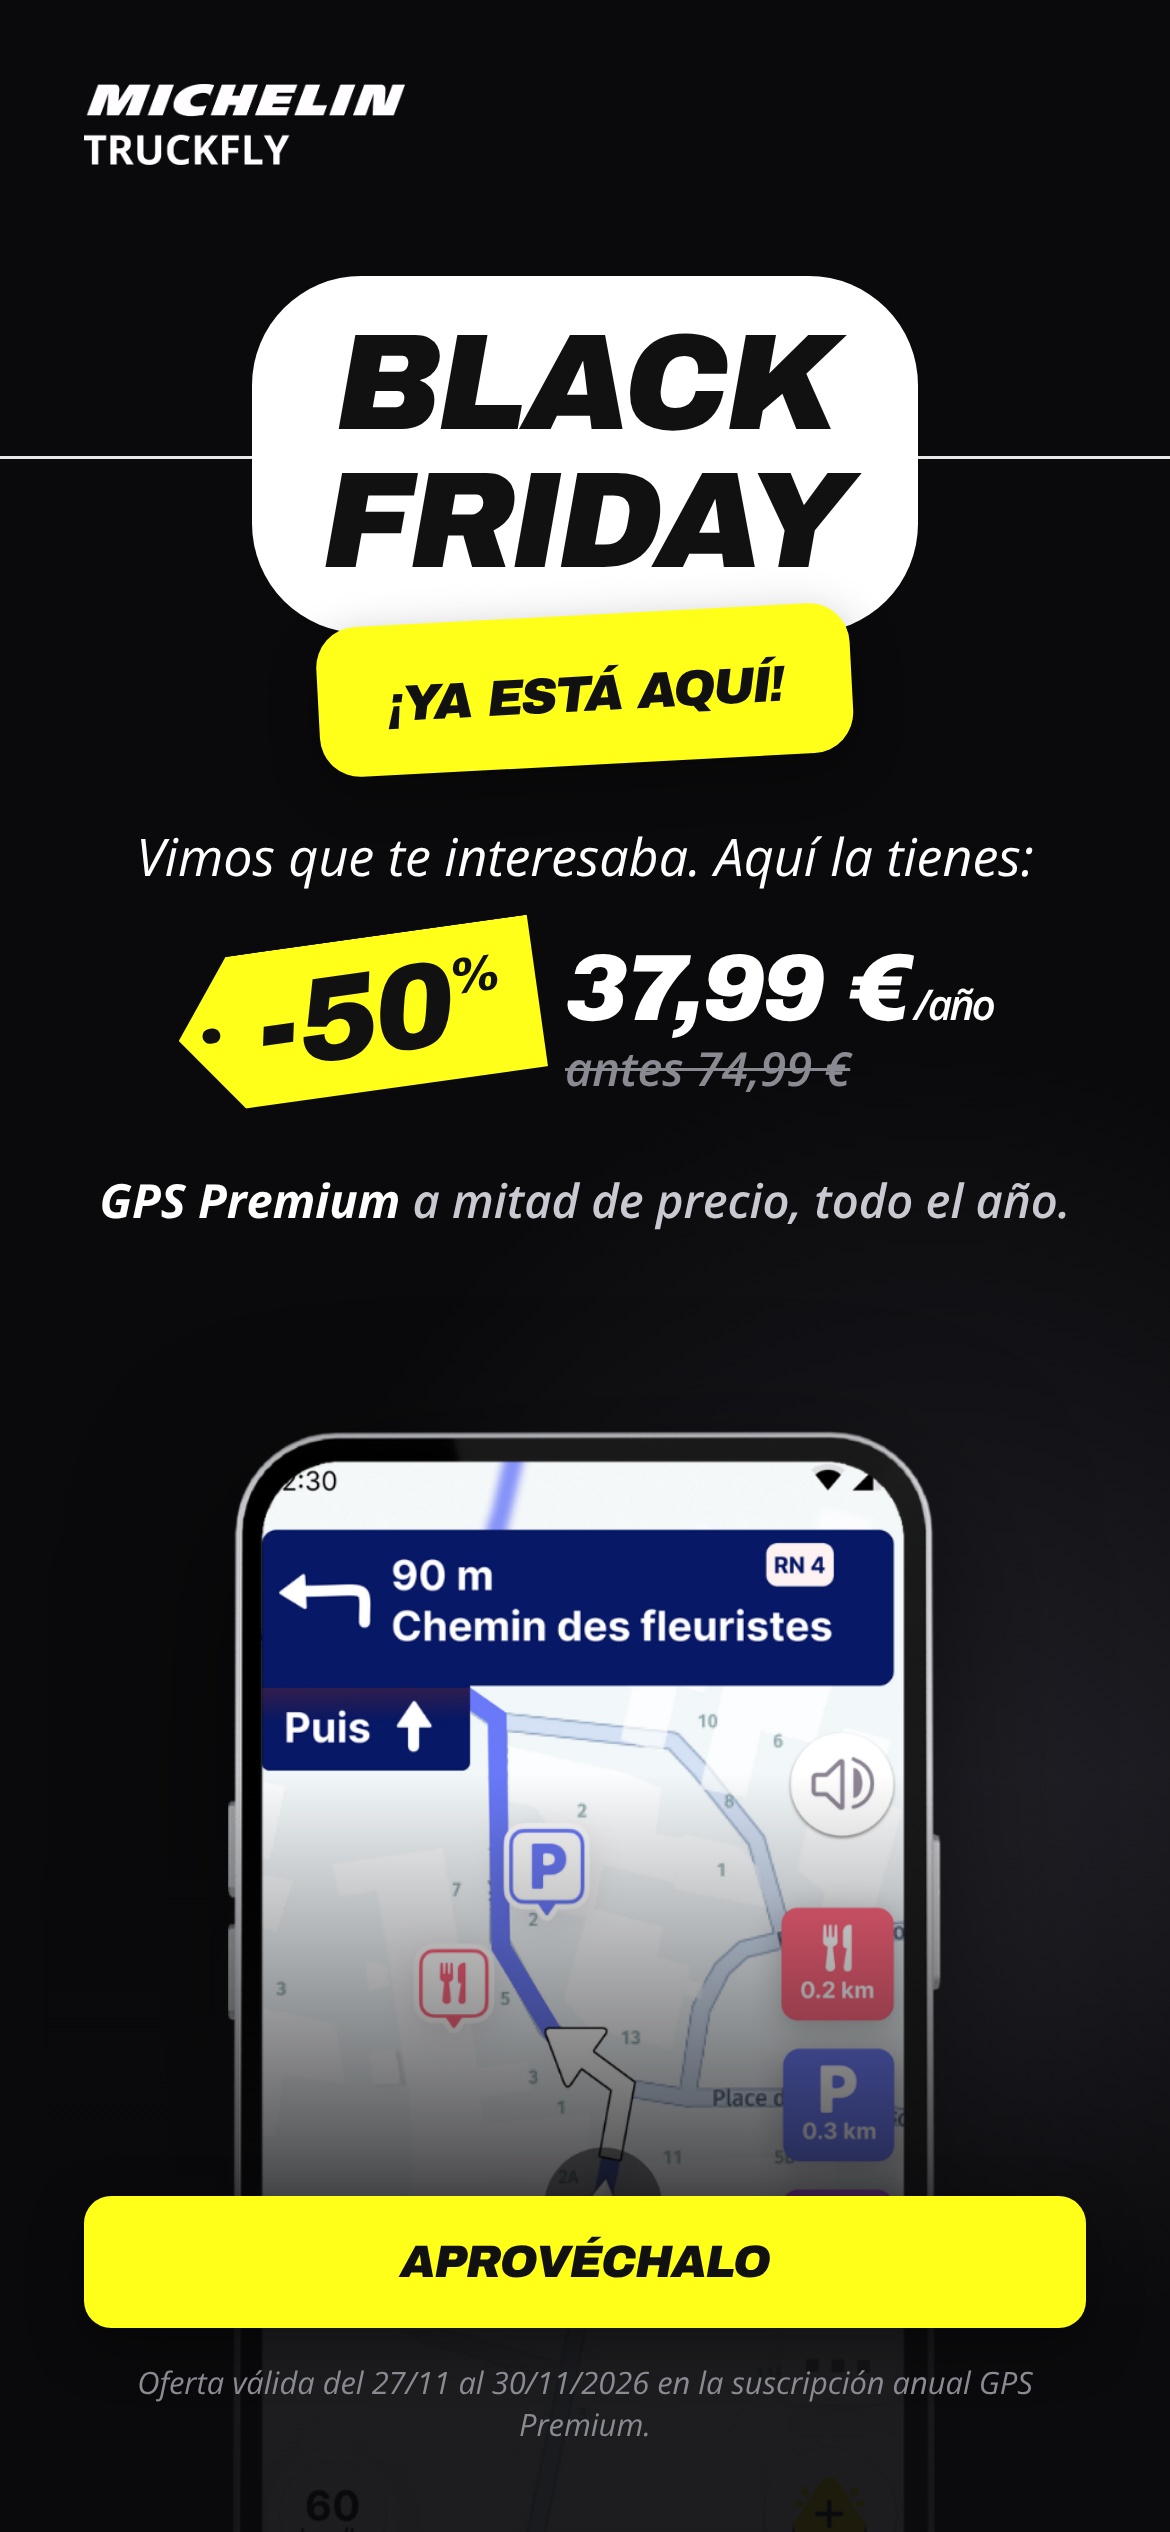
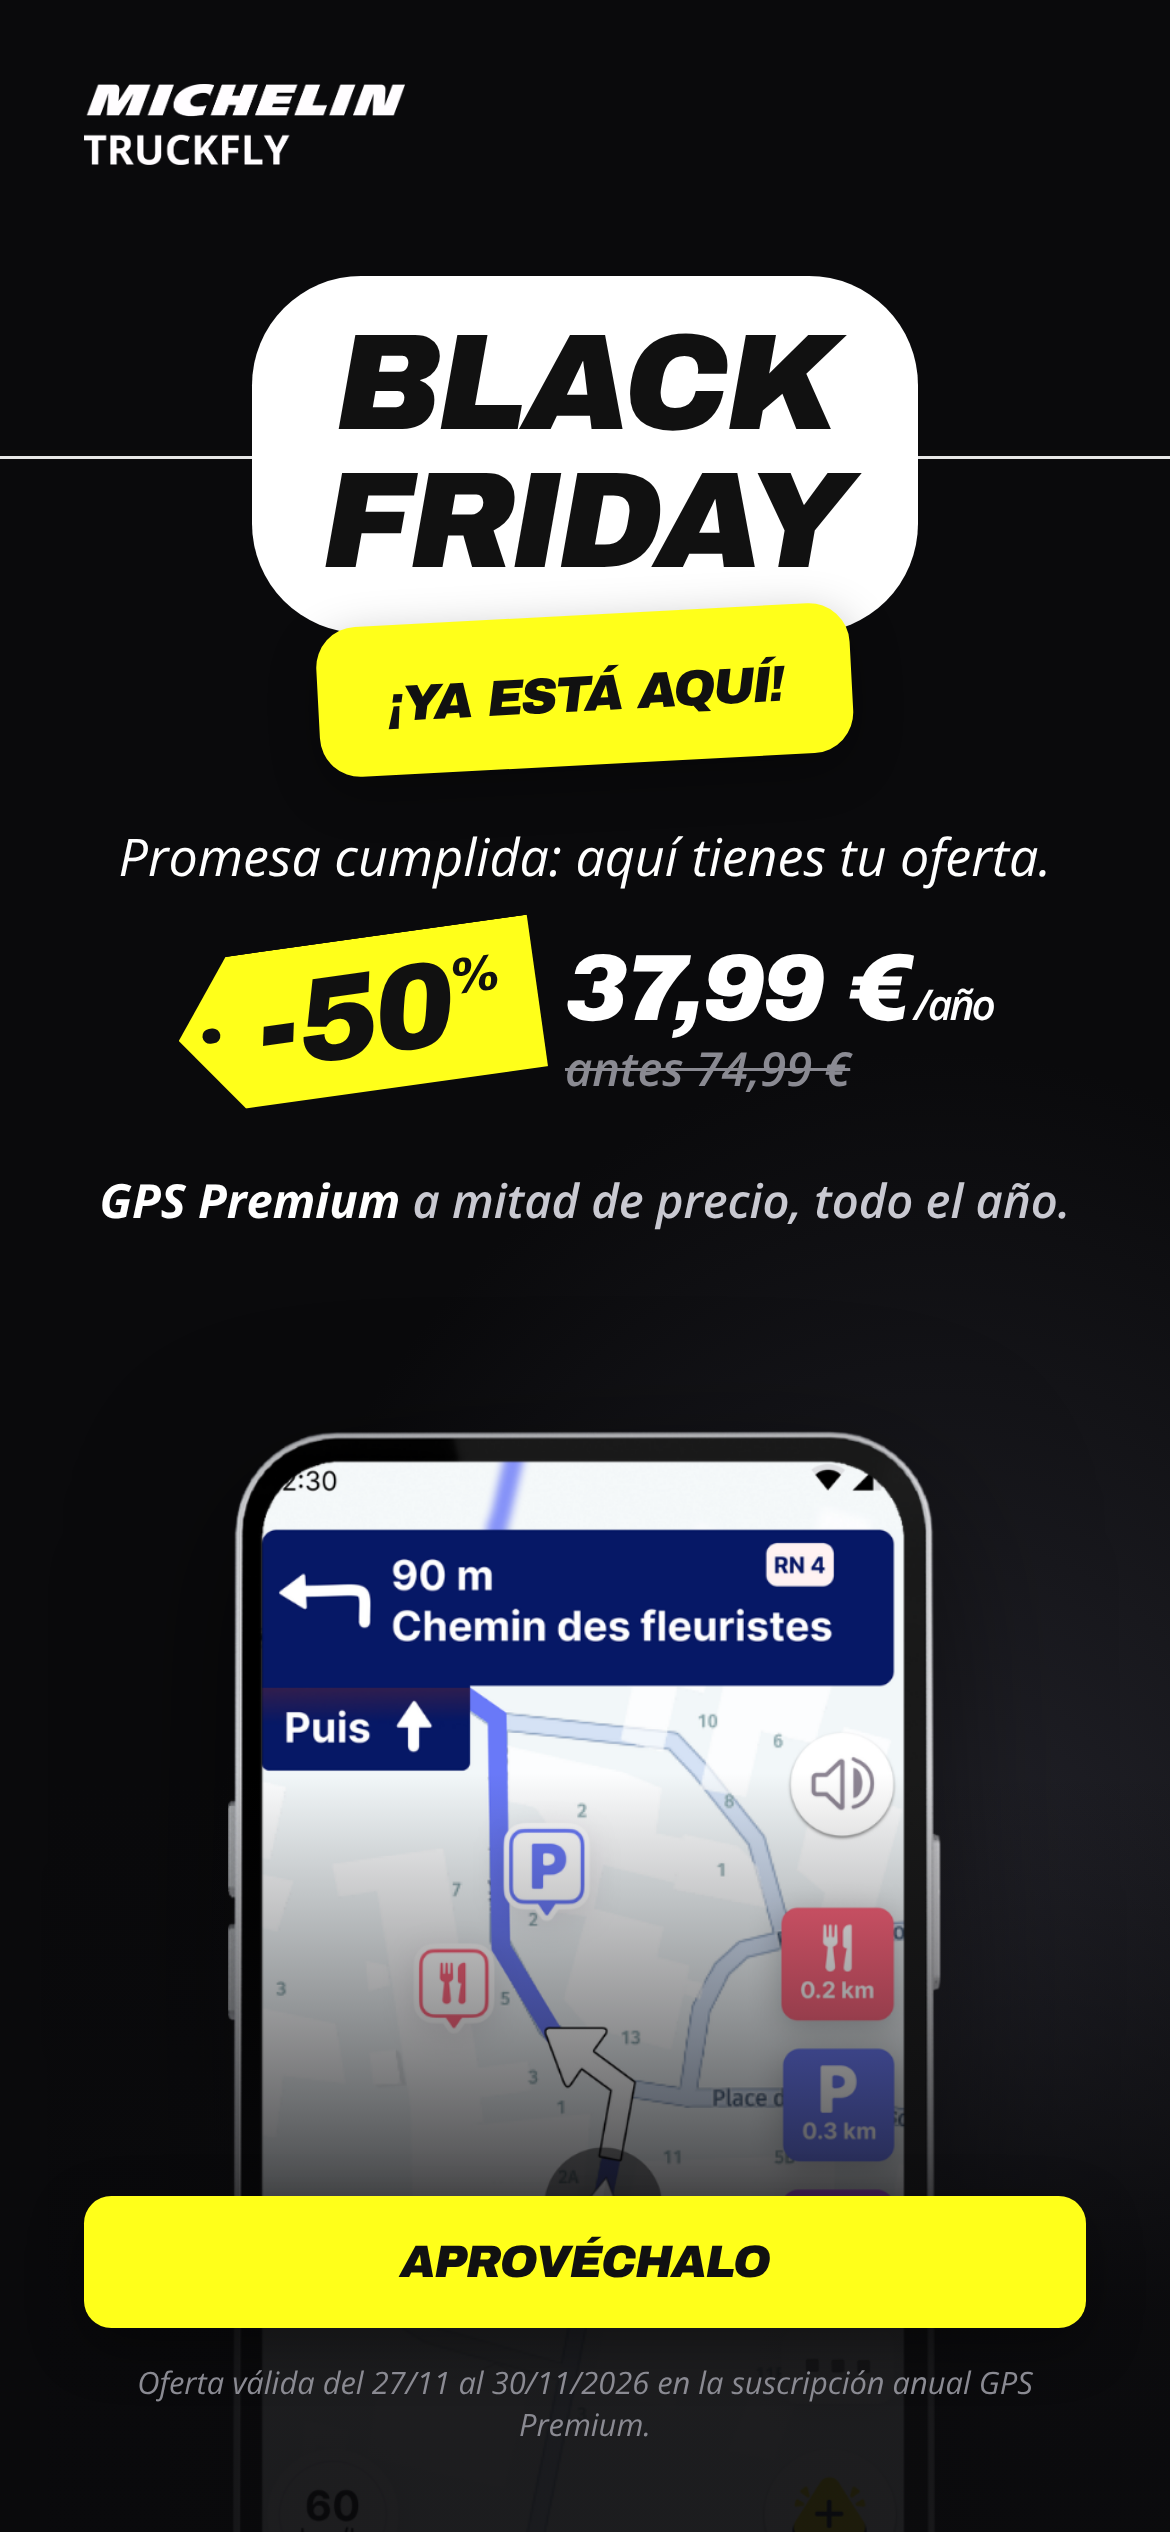
Black Friday: punchier segment in-app messages and push copy in 7 languages
Claude-Session: https://claude.ai/code/session_01Dxf6WNpnQxv74aPZfAxqSJ

Changed region(s): [[0.0923, 0.312, 0.8923, 0.3432]]

diff --git a/black-friday/campagne.html b/black-friday/campagne.html
@@ -163,7 +163,7 @@ const L = {
     notif: `Préviens-moi le 27/11`, note: `Tu recevras une notification le 27/11 au matin.`,
     offre: `<b>Le GPS Premium</b> à moitié prix, pour toute l'année.`,
     dernier: `Dernier jour`, profite: `J'en profite`,
-    plusTard: `Plus tard`, dJ: `<small>c'est parti !</small>`, msgInteresse: `On a vu que ça t'intéressait. La voici :`, msgPlusTard: `Tu avais dit « plus tard » : c'est maintenant.`, sousPlusTard: `Le GPS Premium est à moitié prix jusqu'au 30/11.`, dJusqua: `<small>jusqu'au</small>30/11`,
+    plusTard: `Plus tard`, dJ: `<small>c'est parti !</small>`, msgInteresse: `Promesse tenue : voici ton offre.`, msgPlusTard: `« Plus tard » vient d'arriver.`, sousPlusTard: `Le GPS Premium t'attend à moitié prix, jusqu'au 30/11.`, dJusqua: `<small>jusqu'au</small>30/11`,
     legal: `Offre valable du 27/11 au 30/11/2026 sur l'abonnement annuel GPS Premium.` },
   en: { nom: "English (UK)",
     prix: "£31.99", barre: "was £63.98", an: "/year",
@@ -173,7 +173,7 @@ const L = {
     notif: `Remind me on 27/11`, note: `You'll get a notification on the morning of 27/11.`,
     offre: `<b>GPS Premium</b> at half price, for a whole year.`,
     dernier: `Last day`, profite: `Get the deal`,
-    plusTard: `Maybe later`, dJ: `<small>it's on!</small>`, msgInteresse: `We saw you were interested. Here it is:`, msgPlusTard: `You said “later”. Well, it's now.`, sousPlusTard: `GPS Premium is half price until 30/11.`, dJusqua: `<small>until</small>30/11`,
+    plusTard: `Maybe later`, dJ: `<small>it's on!</small>`, msgInteresse: `Promise kept: here's your deal.`, msgPlusTard: `“Later” has just arrived.`, sousPlusTard: `GPS Premium is waiting for you at half price, until 30/11.`, dJusqua: `<small>until</small>30/11`,
     legal: `Offer valid from 27/11 to 30/11/2026 on the annual GPS Premium subscription.` },
   de: { nom: "Deutsch",
     prix: "37,99 €", barre: "statt 74,99 €", an: "/Jahr",
@@ -183,7 +183,7 @@ const L = {
     notif: `Erinnere mich am 27.11.`, note: `Du bekommst am 27.11. morgens eine Benachrichtigung.`,
     offre: `<b>GPS Premium</b> zum halben Preis, ein ganzes Jahr lang.`,
     dernier: `Letzter Tag`, profite: `Jetzt sichern`,
-    plusTard: `Später`, dJ: `<small>es geht los!</small>`, msgInteresse: `Du wolltest Bescheid wissen. Hier ist das Angebot:`, msgPlusTard: `Du hast „später“ gesagt. Jetzt ist es so weit.`, sousPlusTard: `GPS Premium zum halben Preis bis 30.11.`, dJusqua: `<small>bis</small>30.11.`,
+    plusTard: `Später`, dJ: `<small>es geht los!</small>`, msgInteresse: `Versprochen ist versprochen: dein Angebot.`, msgPlusTard: `„Später“ ist jetzt.`, sousPlusTard: `GPS Premium wartet auf dich: halber Preis bis 30.11.`, dJusqua: `<small>bis</small>30.11.`,
     legal: `Angebot gültig vom 27.11. bis 30.11.2026 für das GPS Premium Jahresabo.` },
   it: { nom: "Italiano",
     prix: "37,99 €", barre: "invece di 74,99 €", an: "/anno",
@@ -193,7 +193,7 @@ const L = {
     notif: `Avvisami il 27/11`, note: `Riceverai una notifica la mattina del 27/11.`,
     offre: `<b>GPS Premium</b> a metà prezzo, per tutto l'anno.`,
     dernier: `Ultimo giorno`, profite: `Approfittane`,
-    plusTard: `Più tardi`, dJ: `<small>ci siamo!</small>`, msgInteresse: `Abbiamo visto che ti interessava. Eccola:`, msgPlusTard: `Avevi detto «più tardi»: è il momento.`, sousPlusTard: `GPS Premium a metà prezzo fino al 30/11.`, dJusqua: `<small>fino al</small>30/11`,
+    plusTard: `Più tardi`, dJ: `<small>ci siamo!</small>`, msgInteresse: `Promessa mantenuta: ecco la tua offerta.`, msgPlusTard: `«Più tardi» è arrivato.`, sousPlusTard: `GPS Premium ti aspetta a metà prezzo, fino al 30/11.`, dJusqua: `<small>fino al</small>30/11`,
     legal: `Offerta valida dal 27/11 al 30/11/2026 sull'abbonamento annuale GPS Premium.` },
   es: { nom: "Español",
     prix: "37,99 €", barre: "antes 74,99 €", an: "/año",
@@ -203,7 +203,7 @@ const L = {
     notif: `Avísame el 27/11`, note: `Recibirás una notificación el 27/11 por la mañana.`,
     offre: `<b>GPS Premium</b> a mitad de precio, todo el año.`,
     dernier: `Último día`, profite: `Aprovéchalo`,
-    plusTard: `Más tarde`, dJ: `<small>¡ya está aquí!</small>`, msgInteresse: `Vimos que te interesaba. Aquí la tienes:`, msgPlusTard: `Dijiste «más tarde»: es ahora.`, sousPlusTard: `GPS Premium a mitad de precio hasta el 30/11.`, dJusqua: `<small>hasta el</small>30/11`,
+    plusTard: `Más tarde`, dJ: `<small>¡ya está aquí!</small>`, msgInteresse: `Promesa cumplida: aquí tienes tu oferta.`, msgPlusTard: `«Más tarde» ya ha llegado.`, sousPlusTard: `GPS Premium te espera a mitad de precio, hasta el 30/11.`, dJusqua: `<small>hasta el</small>30/11`,
     legal: `Oferta válida del 27/11 al 30/11/2026 en la suscripción anual GPS Premium.` },
   nl: { nom: "Nederlands",
     prix: "€ 37,99", barre: "i.p.v. € 74,99", an: "/jaar",
@@ -213,7 +213,7 @@ const L = {
     notif: `Herinner me op 27/11`, note: `Je krijgt op 27/11 's ochtends een melding.`,
     offre: `<b>GPS Premium</b> voor de halve prijs, een heel jaar lang.`,
     dernier: `Laatste dag`, profite: `Profiteer nu`,
-    plusTard: `Later`, dJ: `<small>het is zover!</small>`, msgInteresse: `We zagen dat je interesse had. Hier is de actie:`, msgPlusTard: `Je zei ‘later’. Nou, het is nu.`, sousPlusTard: `GPS Premium voor de halve prijs t/m 30/11.`, dJusqua: `<small>t/m</small>30/11`,
+    plusTard: `Later`, dJ: `<small>het is zover!</small>`, msgInteresse: `Beloofd is beloofd: hier is je aanbieding.`, msgPlusTard: `‘Later’ is nu.`, sousPlusTard: `GPS Premium wacht op je: halve prijs t/m 30/11.`, dJusqua: `<small>t/m</small>30/11`,
     legal: `Actie geldig van 27/11 t/m 30/11/2026 op het jaarabonnement GPS Premium.` },
   pl: { nom: "Polski",
     prix: "166,99 zł", barre: "zamiast 333,98 zł", long: true, an: "/rok",
@@ -223,7 +223,7 @@ const L = {
     notif: `Przypomnij mi 27.11`, note: `27.11 rano dostaniesz powiadomienie.`,
     offre: `<b>GPS Premium</b> za pół ceny, przez cały rok.`,
     dernier: `Ostatni dzień`, profite: `Skorzystaj`,
-    plusTard: `Później`, dJ: `<small>startujemy!</small>`, msgInteresse: `Widzieliśmy, że cię to interesuje. Oto oferta:`, msgPlusTard: `„Później” właśnie nadeszło.`, sousPlusTard: `GPS Premium za pół ceny do 30.11.`, dJusqua: `<small>do</small>30.11`,
+    plusTard: `Później`, dJ: `<small>startujemy!</small>`, msgInteresse: `Obietnica dotrzymana: oto twoja oferta.`, msgPlusTard: `„Później” właśnie nadeszło.`, sousPlusTard: `GPS Premium czeka na ciebie za pół ceny, do 30.11.`, dJusqua: `<small>do</small>30.11`,
     legal: `Oferta ważna od 27.11 do 30.11.2026 na roczną subskrypcję GPS Premium.` },
 };
 const LANGS = Object.keys(L);

diff --git a/black-friday/segmentation.md b/black-friday/segmentation.md
@@ -29,43 +29,43 @@ Règles : à chaque achat, la personne sort du parcours. Un seul message in-app 
 
 ## 3. Textes des push (titre · texte)
 
-Pas d'emoji (règle Truckfly pour les messages GPS). Tutoiement dans toutes les langues.
+Pas d'emoji (règle Truckfly pour les messages GPS). Tutoiement dans toutes les langues. Ton : complice, vocabulaire de la route.
 
 ### Push A · 27/11 · Intéressés
-- **FR** · Black Friday : c'est parti · On t'avait promis de te prévenir : le GPS Premium est à -50 % jusqu'au 30/11.
-- **EN** · Black Friday is on · As promised: GPS Premium is 50% off until 30/11.
-- **DE** · Black Friday ist da · Wie versprochen: GPS Premium bis 30.11. zum halben Preis.
-- **IT** · Il Black Friday è iniziato · Come promesso: GPS Premium a -50% fino al 30/11.
-- **ES** · Ya está aquí el Black Friday · Te lo prometimos: GPS Premium al -50 % hasta el 30/11.
-- **NL** · Black Friday is begonnen · Zoals beloofd: GPS Premium t/m 30/11 voor de halve prijs.
-- **PL** · Black Friday wystartował · Tak jak obiecaliśmy: GPS Premium -50% do 30.11.
+- **FR** · Promesse tenue · Le GPS Premium est à -50 %. Tu es parmi les premiers à le savoir.
+- **EN** · Promise kept · GPS Premium is 50% off. You're among the first to know.
+- **DE** · Versprochen ist versprochen · GPS Premium zum halben Preis. Du gehörst zu den Ersten, die es wissen.
+- **IT** · Promessa mantenuta · GPS Premium a -50%. Sei tra i primi a saperlo.
+- **ES** · Promesa cumplida · GPS Premium al -50 %. Eres de los primeros en saberlo.
+- **NL** · Beloofd is beloofd · GPS Premium voor de halve prijs. Jij hoort het als een van de eersten.
+- **PL** · Obietnica dotrzymana · GPS Premium -50%. Wiesz o tym przed innymi.
 
 ### Push B · 27/11 · Plus tard
-- **FR** · Tu avais dit « plus tard » · C'est maintenant : le GPS Premium est à moitié prix jusqu'au 30/11.
-- **EN** · You said “later” · Well, it's now: GPS Premium is half price until 30/11.
-- **DE** · Du hast „später“ gesagt · Jetzt ist es so weit: GPS Premium bis 30.11. zum halben Preis.
-- **IT** · Avevi detto «più tardi» · È il momento: GPS Premium a metà prezzo fino al 30/11.
-- **ES** · Dijiste «más tarde» · Es ahora: GPS Premium a mitad de precio hasta el 30/11.
-- **NL** · Je zei ‘later’ · Nou, het is nu: GPS Premium t/m 30/11 voor de halve prijs.
-- **PL** · „Później” właśnie nadeszło · GPS Premium za pół ceny do 30.11.
+- **FR** · « Plus tard » vient d'arriver · Le GPS Premium à moitié prix, mais seulement jusqu'au 30/11.
+- **EN** · “Later” has arrived · GPS Premium at half price, but only until 30/11.
+- **DE** · „Später“ ist jetzt · GPS Premium zum halben Preis, aber nur bis 30.11.
+- **IT** · «Più tardi» è arrivato · GPS Premium a metà prezzo, ma solo fino al 30/11.
+- **ES** · «Más tarde» ya ha llegado · GPS Premium a mitad de precio, solo hasta el 30/11.
+- **NL** · ‘Later’ is nu · GPS Premium voor de halve prijs, maar alleen t/m 30/11.
+- **PL** · „Później” właśnie nadeszło · GPS Premium za pół ceny, ale tylko do 30.11.
 
 ### Push C · 29/11 · Plus tard, pas encore acheté
-- **FR** · Plus qu'un jour · Demain soir, le GPS Premium repasse à 74,99 €.
-- **EN** · Only one day left · Tomorrow night, GPS Premium goes back to £63.98.
-- **DE** · Nur noch ein Tag · Morgen Abend kostet GPS Premium wieder 74,99 €.
-- **IT** · Manca solo un giorno · Domani sera GPS Premium torna a 74,99 €.
-- **ES** · Solo queda un día · Mañana por la noche, GPS Premium vuelve a 74,99 €.
-- **NL** · Nog maar één dag · Morgenavond kost GPS Premium weer € 74,99.
-- **PL** · Został tylko jeden dzień · Jutro wieczorem GPS Premium wraca do 333,98 zł.
+- **FR** · Dernière sortie avant la fin · Plus qu'un jour pour le GPS Premium à moitié prix.
+- **EN** · Last exit before the end · One day left for GPS Premium at half price.
+- **DE** · Letzte Ausfahrt vor dem Ende · Nur noch ein Tag: GPS Premium zum halben Preis.
+- **IT** · Ultima uscita prima della fine · Manca un giorno: GPS Premium a metà prezzo.
+- **ES** · Última salida antes del final · Queda un día: GPS Premium a mitad de precio.
+- **NL** · Laatste afslag voor het einde · Nog één dag: GPS Premium voor de halve prijs.
+- **PL** · Ostatni zjazd przed końcem · Został jeden dzień: GPS Premium za pół ceny.
 
 ### Push D · 30/11 · Tous ceux qui ont cliqué, pas encore acheté
-- **FR** · Dernier jour · Le GPS Premium à 37,99 €/an, c'est jusqu'à minuit.
-- **EN** · Last day · GPS Premium at £31.99/year, until midnight.
-- **DE** · Letzter Tag · GPS Premium für 37,99 €/Jahr, nur bis Mitternacht.
-- **IT** · Ultimo giorno · GPS Premium a 37,99 €/anno, fino a mezzanotte.
-- **ES** · Último día · GPS Premium a 37,99 €/año, hasta medianoche.
-- **NL** · Laatste dag · GPS Premium voor € 37,99/jaar, tot middernacht.
-- **PL** · Ostatni dzień · GPS Premium za 166,99 zł/rok, tylko do północy.
+- **FR** · La barrière se ferme à minuit · Dernières heures pour le GPS Premium à 37,99 €/an.
+- **EN** · The barrier closes at midnight · Final hours for GPS Premium at £31.99/year.
+- **DE** · Um Mitternacht geht die Schranke zu · Letzte Stunden: GPS Premium für 37,99 €/Jahr.
+- **IT** · A mezzanotte si chiude la sbarra · Ultime ore: GPS Premium a 37,99 €/anno.
+- **ES** · A medianoche se baja la barrera · Últimas horas: GPS Premium a 37,99 €/año.
+- **NL** · Om middernacht gaat de slagboom dicht · Laatste uren: GPS Premium voor € 37,99/jaar.
+- **PL** · O północy zamykamy szlaban · Ostatnie godziny: GPS Premium za 166,99 zł/rok.
 
 ## 4. À mesurer
 
